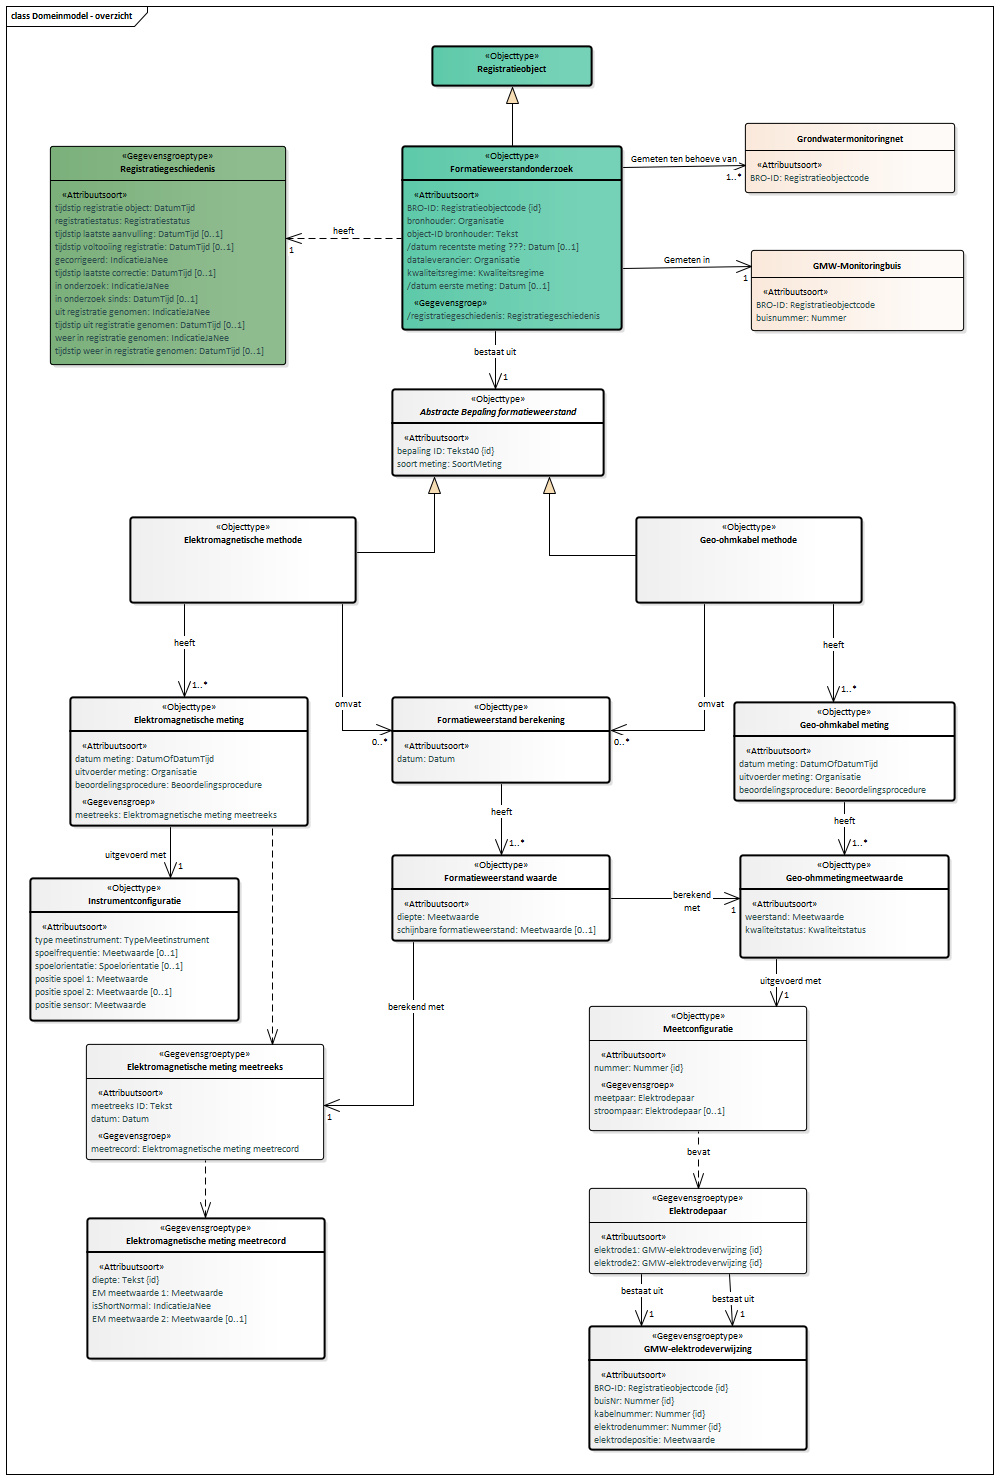
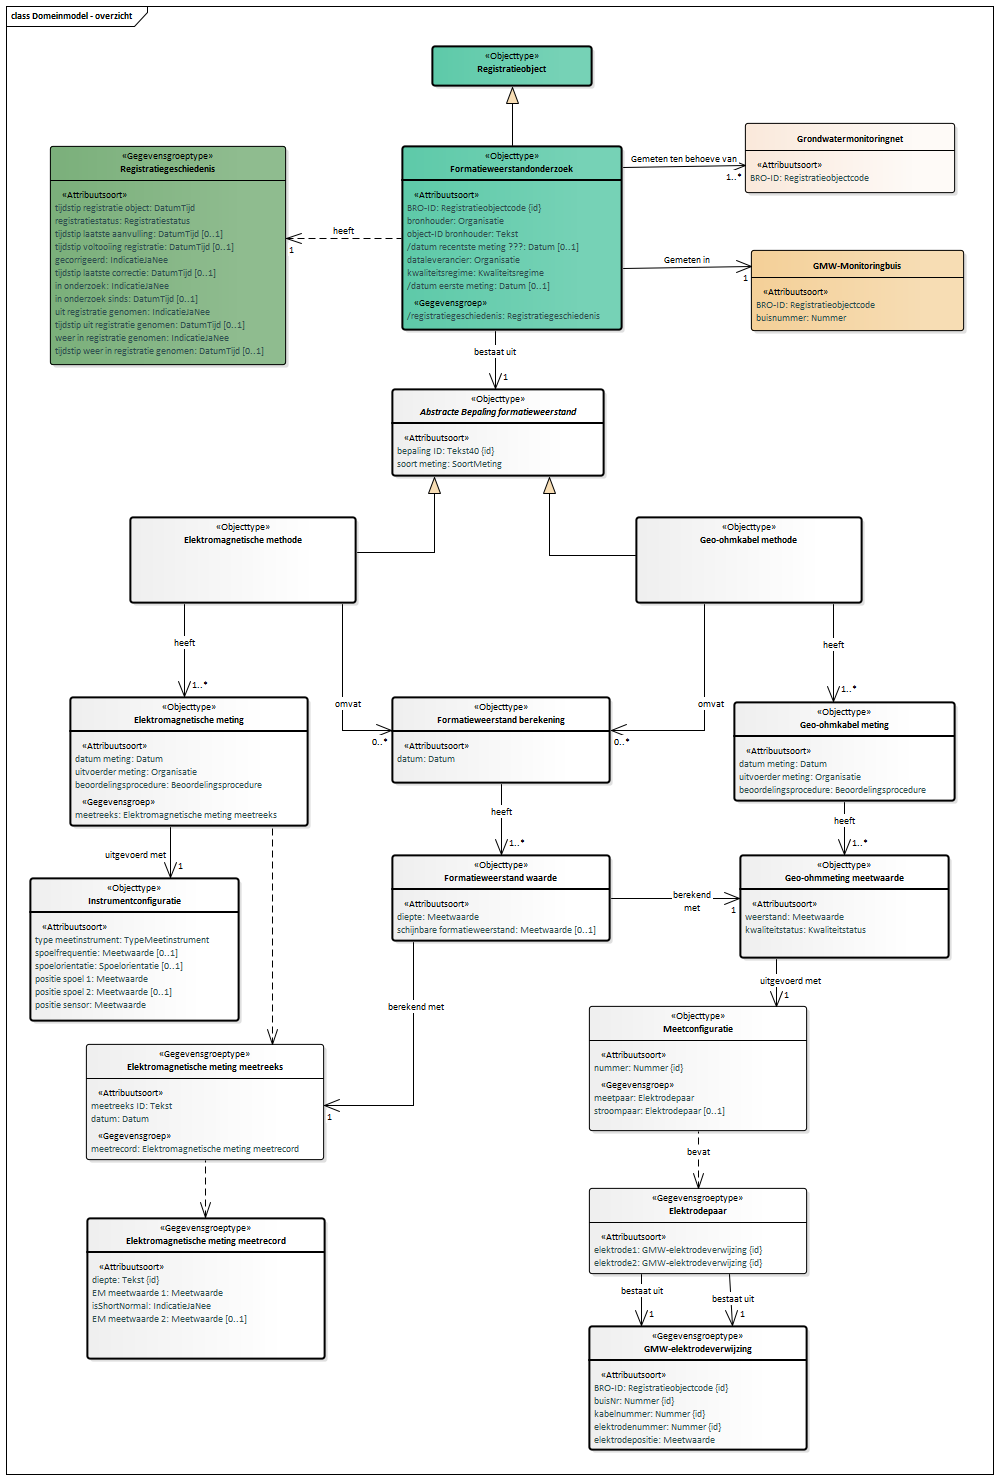
Conceptualmodel-FormatieweerstandonderzoekFRDconceptueel-0.1-1-20200401-20200819-174630

Changed region(s): [[0.7447, 0.1554, 0.962, 0.2486], [0.8068, 0.5905, 0.8999, 0.6216]]

diff --git a/data/FRD-cat.msword.html b/data/FRD-cat.msword.html
@@ -15,7 +15,7 @@
    <body>
       <p>Conceptual model/Formatieweerstand onderzoek (FRD) conceptueel/20200401</p>
       <p>Imvertor: 1.61.2</p>
-      <p>Model release: Conceptualmodel-FormatieweerstandonderzoekFRDconceptueel-0.1-1-20200401-20200819-171558</p>
+      <p>Model release: Conceptualmodel-FormatieweerstandonderzoekFRDconceptueel-0.1-1-20200401-20200819-174630</p>
       <hr>
       <section>
          <h1>Artikel 1 Definitie van registratieobject, entiteiten en attributen</h1>
@@ -60,7 +60,7 @@
          <section>
             <h2>Het domeinmodel</h2>
             <section id="">
-               <div class="imageinfo overview"><img src="Images/EAID_0B3602DB_544E_4f6f_A6E2_DDE4A8A6790E.png" usemap="#imagemap-EAID_0B3602DB_544E_4f6f_A6E2_DDE4A8A6790E" alt="Diagram "><map name="imagemap-EAID_0B3602DB_544E_4f6f_A6E2_DDE4A8A6790E"><area shape="rect" alt="Formatieweerstand waarde" coords="392,855,610,941" href="#graph_EAID_1C615D07_2360_4c93_8371_F9173FA1C85B"><area shape="rect" alt="Formatieweerstand berekening" coords="392,697,610,783" href="#graph_EAID_6F6C1FC0_77AE_4d31_8862_B7B443C2D0C8"><area shape="rect" alt="Elektromagnetische meting" coords="70,697,308,826" href="#graph_EAID_CA2EEC38_0161_4d1b_968C_E63B2F5C1547"><area shape="rect" alt="Elektrodepaar" coords="589,1188,807,1274" href="#graph_EAID_F78E7F84_132E_4390_A72A_D32759DEBED4"><area shape="rect" alt="Geo-ohmkabel meting" coords="734,702,955,801" href="#graph_EAID_DB9DF92C_83D8_4d54_8B6A_6693052EF4B1"><area shape="rect" alt="Elektromagnetische meting meetreeks" coords="86,1044,324,1160" href="#graph_EAID_33450642_9C84_4c07_AFE3_FB734FBA8DBB"><area shape="rect" alt="Geo-ohmmetingmeetwaarde" coords="740,855,949,958" href="#graph_EAID_0E73504D_4081_4ea3_A7AA_1FB27FBC227B"><area shape="rect" alt="Instrumentconfiguratie" coords="30,878,239,1021" href="#graph_EAID_C4102470_4315_4bda_9B2A_59EDEA9E2834"><area shape="rect" alt="Meetconfiguratie" coords="589,1006,807,1131" href="#graph_EAID_04636D26_BFC4_4838_AC91_21BB2BF62212"><area shape="rect" alt="Elektromagnetische meting meetrecord" coords="87,1218,325,1359" href="#graph_EAID_17DB4860_7353_467e_89CD_5018D22D8A43"><area shape="rect" alt="Elektromagnetische methode" coords="130,517,356,603" href="#graph_EAID_A1A80DF7_7D38_4063_8DE9_80EDAAF846B4"><area shape="rect" alt="Geo-ohmkabel methode" coords="636,517,862,603" href="#graph_EAID_16AE0361_B385_4410_A632_F5CDCEEC8FD1"><area shape="rect" alt="GMW-elektrodeverwijzing" coords="589,1326,807,1450" href="#graph_EAID_EFFFB8A0_3810_43f9_83F1_FC48EFD1FE4E"><area shape="rect" alt="Abstracte Bepaling formatieweerstand" coords="392,389,604,476" href="#graph_EAID_D3B48B39_96CC_4f01_91F1_BDF0B725CD8A"><area shape="rect" alt="Registratiegeschiedenis" coords="50,146,286,365" href="#graph_EAID_0451B041_6862_420f_9E12_9829516BAF81"><area shape="rect" alt="Formatieweerstandonderzoek" coords="402,146,622,330" href="#graph_EAID_F03C2FC8_5705_46dc_927D_01B7EC61C2F2"><area shape="rect" alt="Registratieobject" coords="432,46,592,86" href="#graph_EAID_5706F7F6_075B_46d6_A47D_7DCF1EEB21B7"></map><p><b>Domeinmodel</b></p>
+               <div class="imageinfo overview"><img src="Images/EAID_0B3602DB_544E_4f6f_A6E2_DDE4A8A6790E.png" usemap="#imagemap-EAID_0B3602DB_544E_4f6f_A6E2_DDE4A8A6790E" alt="Diagram "><map name="imagemap-EAID_0B3602DB_544E_4f6f_A6E2_DDE4A8A6790E"><area shape="rect" alt="Formatieweerstand waarde" coords="392,855,610,941" href="#graph_EAID_1C615D07_2360_4c93_8371_F9173FA1C85B"><area shape="rect" alt="Formatieweerstand berekening" coords="392,697,610,783" href="#graph_EAID_6F6C1FC0_77AE_4d31_8862_B7B443C2D0C8"><area shape="rect" alt="Elektromagnetische meting" coords="70,697,308,826" href="#graph_EAID_CA2EEC38_0161_4d1b_968C_E63B2F5C1547"><area shape="rect" alt="Elektrodepaar" coords="589,1188,807,1274" href="#graph_EAID_F78E7F84_132E_4390_A72A_D32759DEBED4"><area shape="rect" alt="Geo-ohmkabel meting" coords="734,702,955,801" href="#graph_EAID_DB9DF92C_83D8_4d54_8B6A_6693052EF4B1"><area shape="rect" alt="Elektromagnetische meting meetreeks" coords="86,1044,324,1160" href="#graph_EAID_33450642_9C84_4c07_AFE3_FB734FBA8DBB"><area shape="rect" alt="Geo-ohmmeting meetwaarde" coords="740,855,949,958" href="#graph_EAID_0E73504D_4081_4ea3_A7AA_1FB27FBC227B"><area shape="rect" alt="Instrumentconfiguratie" coords="30,878,239,1021" href="#graph_EAID_C4102470_4315_4bda_9B2A_59EDEA9E2834"><area shape="rect" alt="Meetconfiguratie" coords="589,1006,807,1131" href="#graph_EAID_04636D26_BFC4_4838_AC91_21BB2BF62212"><area shape="rect" alt="Elektromagnetische meting meetrecord" coords="87,1218,325,1359" href="#graph_EAID_17DB4860_7353_467e_89CD_5018D22D8A43"><area shape="rect" alt="Elektromagnetische methode" coords="130,517,356,603" href="#graph_EAID_A1A80DF7_7D38_4063_8DE9_80EDAAF846B4"><area shape="rect" alt="Geo-ohmkabel methode" coords="636,517,862,603" href="#graph_EAID_16AE0361_B385_4410_A632_F5CDCEEC8FD1"><area shape="rect" alt="GMW-elektrodeverwijzing" coords="589,1326,807,1450" href="#graph_EAID_EFFFB8A0_3810_43f9_83F1_FC48EFD1FE4E"><area shape="rect" alt="Abstracte Bepaling formatieweerstand" coords="392,389,604,476" href="#graph_EAID_D3B48B39_96CC_4f01_91F1_BDF0B725CD8A"><area shape="rect" alt="Registratiegeschiedenis" coords="50,146,286,365" href="#graph_EAID_0451B041_6862_420f_9E12_9829516BAF81"><area shape="rect" alt="Formatieweerstandonderzoek" coords="402,146,622,330" href="#graph_EAID_F03C2FC8_5705_46dc_927D_01B7EC61C2F2"><area shape="rect" alt="Registratieobject" coords="432,46,592,86" href="#graph_EAID_5706F7F6_075B_46d6_A47D_7DCF1EEB21B7"></map><p><b>Domeinmodel</b></p>
                </div>
             </section>
          </section>
@@ -1040,7 +1040,7 @@
                               <th>Definitie</th>
                               <td>
                                  
-                                 <p>De datum en het tijdstip ??? waarop de meting is uitgevoerd.</p>
+                                 <p>De datum waarop de meting is uitgevoerd.</p>
                                  </td>
                            </tr>
                            <tr>
@@ -1057,7 +1057,11 @@
                            </tr>
                            <tr>
                               <th>&nbsp;&nbsp;Naam</th>
-                              <td>DatumOfDatumTijd</td>
+                              <td>Datum</td>
+                           </tr>
+                           <tr>
+                              <th>&nbsp;&nbsp;Naam IMBRO/A</th>
+                              <td>OnvolledigeDatum</td>
                            </tr>
                            <tr>
                               <th>Toelichting</th>
@@ -1325,7 +1329,7 @@
                               <th>Definitie</th>
                               <td>
                                  
-                                 <p>De datum en het tijdstip ??? waarop de meting is uitgevoerd.</p>
+                                 <p>De datum waarop de meting is uitgevoerd.</p>
                                  </td>
                            </tr>
                            <tr>
@@ -1342,7 +1346,11 @@
                            </tr>
                            <tr>
                               <th>&nbsp;&nbsp;Naam</th>
-                              <td>DatumOfDatumTijd</td>
+                              <td>Datum</td>
+                           </tr>
+                           <tr>
+                              <th>&nbsp;&nbsp;Naam IMBRO/A</th>
+                              <td>OnvolledigeDatum</td>
                            </tr>
                            <tr>
                               <th>Toelichting</th>
@@ -1795,7 +1803,7 @@
                               <th>Definitie</th>
                               <td>
                                  
-                                 <p>TODO</p>
+                                 <p>Het door de bronhouder aangeleverde identificerend gegeven van de EM-meetreeks.</p>
                                  </td>
                            </tr>
                            <tr>
@@ -1831,7 +1839,7 @@
                               <th>Definitie</th>
                               <td>
                                  
-                                 <p>TODO</p>
+                                 <p>De datum waarop de meetreeks tot stand is gekomen.</p>
                                  </td>
                            </tr>
                            <tr>
@@ -2054,7 +2062,7 @@
                      </table>
                      </section>
                </section><a class="anchor" id="graph_EAID_0E73504D_4081_4ea3_A7AA_1FB27FBC227B"></a><a class="anchor" id="global_class_Model_Geoohmmetingmeetwaarde"></a><section id="global_class_Model_Geoohmmetingmeetwaarde">
-                  <h3>   Geo-ohmmetingmeetwaarde</h3>
+                  <h3>   Geo-ohmmeting meetwaarde</h3>
                   <table style="width: 100%;">
                      <colgroup style="width: 30%;"></colgroup>
                      <colgroup style="width: 70%;"></colgroup>
@@ -2067,7 +2075,7 @@
                            <th>Definitie</th>
                            <td>
                               
-                              <p>TODO</p>
+                              <p>De kenmerken van een geo-ohmmeting meetwaarde.</p>
                               </td>
                         </tr>
                         <tr>
@@ -2088,7 +2096,7 @@
                         <tbody>
                            <tr>
                               <th>Type gegeven</th>
-                              <td>Attribuut van Geo-ohmmetingmeetwaarde</td>
+                              <td>Attribuut van Geo-ohmmeting meetwaarde</td>
                            </tr>
                            <tr>
                               <th>Definitie</th>
@@ -2129,7 +2137,7 @@
                         <tbody>
                            <tr>
                               <th>Type gegeven</th>
-                              <td>Attribuut van Geo-ohmmetingmeetwaarde</td>
+                              <td>Attribuut van Geo-ohmmeting meetwaarde</td>
                            </tr>
                            <tr>
                               <th>Definitie</th>
@@ -2183,7 +2191,7 @@
                            <th>Definitie</th>
                            <td>
                               
-                              <p>TODO</p>
+                              <p>De kenmerken van de meethode waarmee de formatieweerstand wordt gemeten en berekend.</p>
                               </td>
                         </tr>
                         <tr>
@@ -2224,8 +2232,8 @@
                            <th>Toelichting</th>
                            <td>
                               
-                              <p>Iedere meting aan een geoohmkabel wordt  aan de hand van een meetconfiguratie gedaan.
-                                 Een meetconfiguratie bestaat uit één paar meetelektrodes en één paar stroomelektrodes.
+                              <p>Iedere indivuele meting aan een geoohmkabel wordt  aan de hand van een meetconfiguratie
+                                 gedaan. Een meetconfiguratie bestaat uit één paar meetelektrodes en één paar stroomelektrodes.
                                  </p>
                               </td>
                         </tr>
@@ -2512,7 +2520,7 @@
                               <th>Definitie</th>
                               <td>
                                  
-                                 <p>TODO</p>
+                                 <p>De identificatie van de grondwatermonitoringput in de basisregistratie ondergrond</p>
                                  </td>
                            </tr>
                            <tr>
@@ -2556,7 +2564,8 @@
                               <th>Definitie</th>
                               <td>
                                  
-                                 <p>TODO</p>
+                                 <p>Het identificerende nummer van de monitoringbuis in de grondwatermonitoringput in
+                                    de basisregistratie ondergrond.</p>
                                  </td>
                            </tr>
                            <tr>
@@ -2592,7 +2601,8 @@
                               <th>Definitie</th>
                               <td>
                                  
-                                 <p>TODO</p>
+                                 <p>Het identificerende nummer van de geoohmkabel aan de monitoringsbuis van een grondwatermonitoringput
+                                    in de basisregistratie ondergrond.</p>
                                  </td>
                            </tr>
                            <tr>
@@ -2628,7 +2638,8 @@
                               <th>Definitie</th>
                               <td>
                                  
-                                 <p>TODO</p>
+                                 <p>Het identificerende nummer van de elektrode van een geoohmkabel in de grondwatermonitoringput
+                                    in de basisregistratie ondergrond.</p>
                                  </td>
                            </tr>
                            <tr>
@@ -2664,7 +2675,8 @@
                               <th>Definitie</th>
                               <td>
                                  
-                                 <p>TODO</p>
+                                 <p>De elektrodepositie van de elektrode aan een geoohmkabel in de grondwatermonitoringput
+                                    in de basisregistratie ondergrond.</p>
                                  </td>
                            </tr>
                            <tr>
@@ -2687,6 +2699,13 @@
                            <tr>
                               <th>&nbsp;&nbsp;Eenheid</th>
                               <td>m (meter)</td>
+                           </tr>
+                           <tr>
+                              <th>Toelichting</th>
+                              <td>
+                                 
+                                 <p>De elektrodepositie is de diepte ten opzichte van NAP.</p>
+                                 </td>
                            </tr>
                         </tbody>
                      </table>
